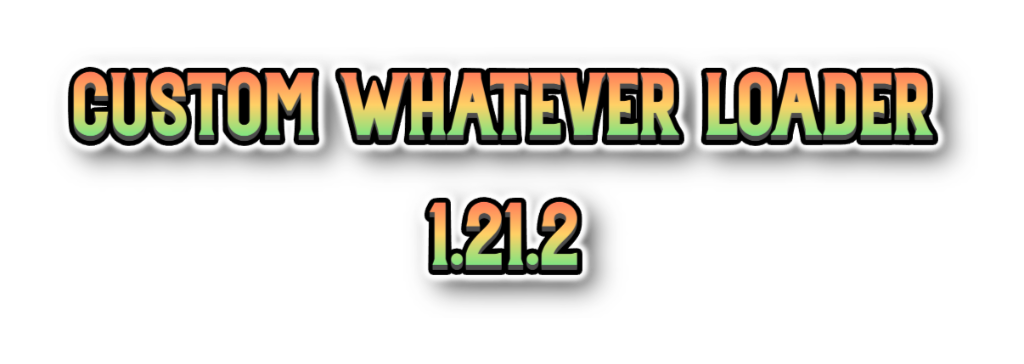
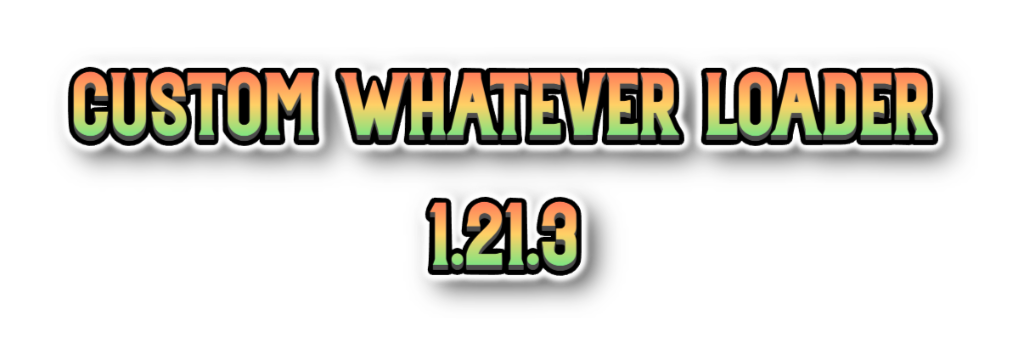
fix(CWL): noexcept when building deferred patches

Changed region(s): [[0.4062, 0.544, 0.5938, 0.7857]]

diff --git a/CustomWhateverLoader/Loader/CwlStartTask.cs b/CustomWhateverLoader/Loader/CwlStartTask.cs
@@ -1,5 +1,6 @@
 using System;
 using System.Collections;
+using System.Collections.Generic;
 using Cwl.API.Attributes;
 using Cwl.API.Custom;
 using Cwl.API.Drama;
@@ -60,14 +61,7 @@ internal sealed partial class CwlMod
             return;
         }
 
-        foreach (var patch in typeof(CwlMod).Assembly.DefinedTypes) {
-            try {
-                SharedHarmony.CreateClassProcessor(patch).Patch();
-            } catch (Exception ex) {
-                Error<CwlMod>($"failed to apply {patch.Name}\n{ex.InnerException}");
-                // noexcept
-            }
-        }
+        BuildPatchesFromTypes(typeof(CwlMod).Assembly.DefinedTypes);
 
         if (CwlConfig.TrimSpaces) {
             CellPostProcessPatch.Add(c => c?.Trim());
@@ -77,19 +71,30 @@ internal sealed partial class CwlMod
     [Time]
     private static void BuildDeferredPatches()
     {
-        SharedHarmony.PatchAll(typeof(ActPerformEvent));
+        List<Type> deferred = [
+            typeof(ActPerformEvent),
+            typeof(ConverterEvent.CanDecaySubEvent),
+            typeof(ConverterEvent.OnDecaySubEvent),
+            typeof(LoadZonePatch),
+            typeof(RepositionTcPatch.TcFixPosPatch),
+            typeof(InvalidateItemPatch),
+            typeof(InvalidateDestThingPatch),
+            typeof(ReverseIdMapper.RecipeMaterialIdMapper),
+        ];
 
-        SharedHarmony.PatchAll(typeof(ConverterEvent.CanDecaySubEvent));
-        SharedHarmony.PatchAll(typeof(ConverterEvent.OnDecaySubEvent));
+        BuildPatchesFromTypes(deferred);
+    }
 
-        SharedHarmony.PatchAll(typeof(LoadZonePatch));
-
-        SharedHarmony.PatchAll(typeof(RepositionTcPatch.TcFixPosPatch));
-
-        SharedHarmony.PatchAll(typeof(InvalidateItemPatch));
-        SharedHarmony.PatchAll(typeof(InvalidateDestThingPatch));
-
-        SharedHarmony.PatchAll(typeof(ReverseIdMapper.RecipeMaterialIdMapper));
+    private static void BuildPatchesFromTypes(IEnumerable<Type> types)
+    {
+        foreach (var def in types) {
+            try {
+                SharedHarmony.CreateClassProcessor(def).Patch();
+            } catch (Exception ex) {
+                Error<CwlMod>($"failed to apply {def.Name}\n{ex.InnerException}");
+                // noexcept
+            }
+        }
     }
 
     [Time]

diff --git a/CustomWhateverLoader/Loader/CwlAsmInfo.cs b/CustomWhateverLoader/Loader/CwlAsmInfo.cs
@@ -1,7 +1,7 @@
 using System.Reflection;
 using Cwl;
 
-[assembly: AssemblyVersion($"{ModInfo.Version}.*")]
+[assembly: AssemblyVersion($"{ModInfo.Version}.{GitVersionInformation.CommitsSinceVersionSource}")]
 [assembly: AssemblyFileVersion($"{ModInfo.Version}.{GitVersionInformation.CommitsSinceVersionSource}")]
 [assembly: AssemblyInformationalVersion($"{GitVersionInformation.CommitDate}+{GitVersionInformation.Sha}")]
 [assembly: AssemblyProduct($"{ModInfo.Guid}+{GitVersionInformation.BranchName}")]

diff --git a/CustomWhateverLoader/Loader/CustomWhateverLoader.cs b/CustomWhateverLoader/Loader/CustomWhateverLoader.cs
@@ -20,7 +20,7 @@ public static class ModInfo
     public const string Guid = "dk.elinplugins.customdialogloader";
     public const string Name = "Custom Whatever Loader";
 
-    public const string Version = "1.21.2";
+    public const string Version = "1.21.3";
 
     // for runtime versions
 
